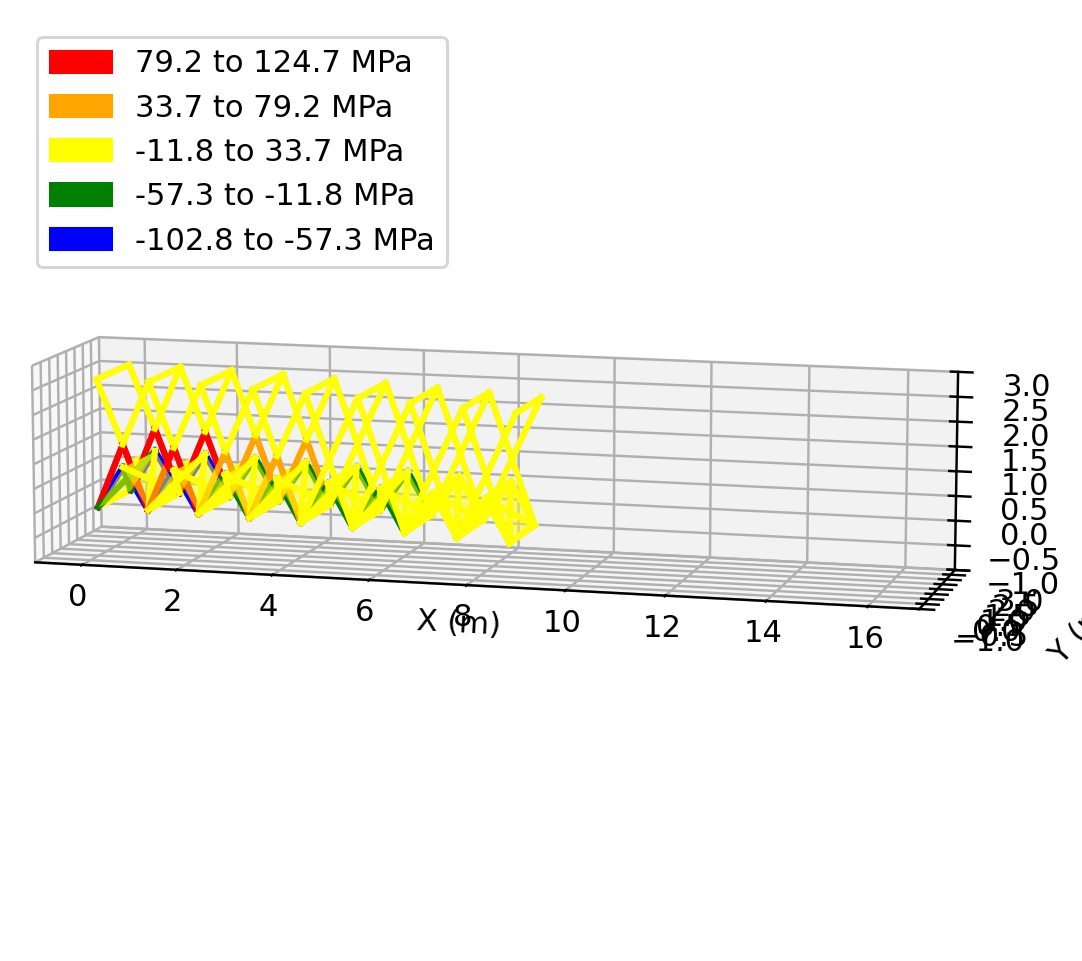
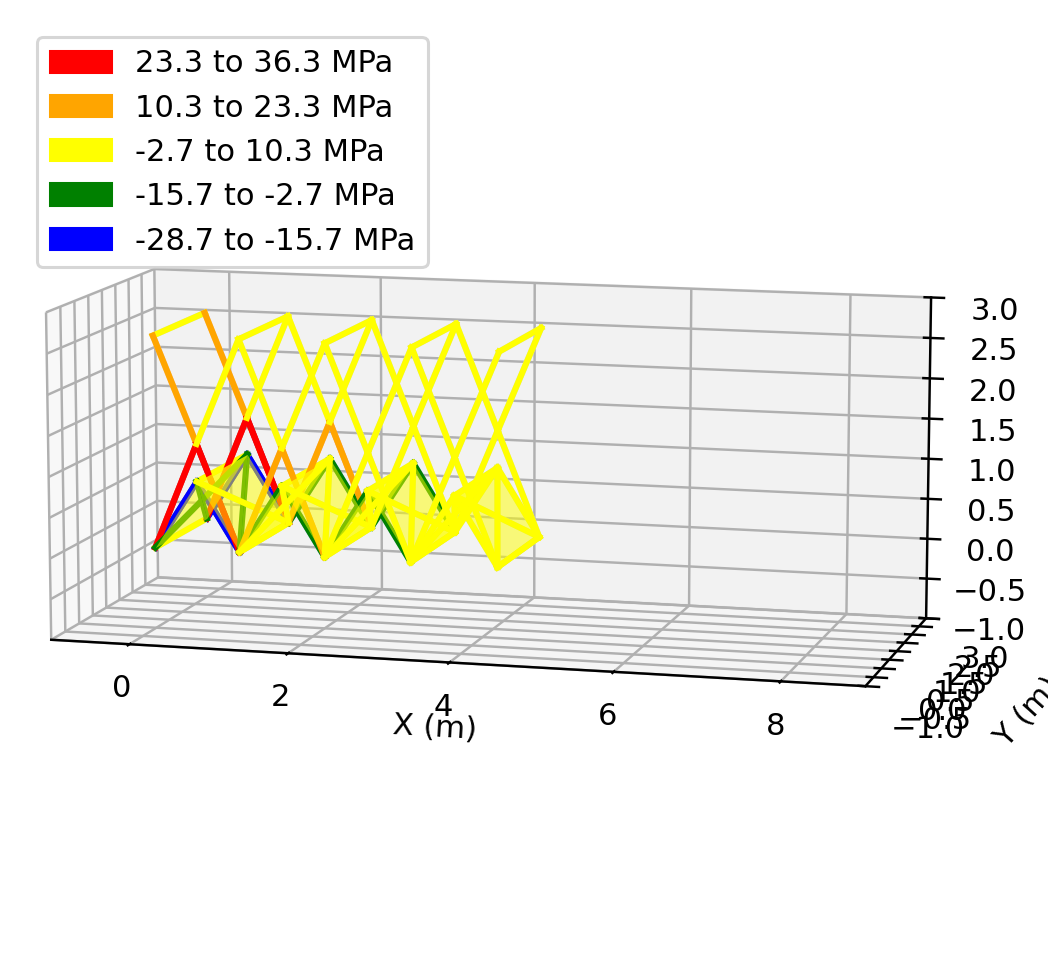
update

diff --git a/Scissor_Bridge_Strength_During_Deploy.py b/Scissor_Bridge_Strength_During_Deploy.py
@@ -1,6 +1,4 @@
 import os
-import time
-
 import numpy as np
 
 from Solver_NR_Loading import Solver_NR_Loading
@@ -52,18 +50,10 @@ def check_members(model, U_end, An, r_val, Fy, Fu, Rp):
     return truss_strain, pass_yn, dcr
 
 
-def write_summary(name, lines):
-    path = os.path.join(OUT_DIR, name)
-    with open(path, "w", encoding="utf-8") as f:
-        f.write("\n".join(lines) + "\n")
-    print(f"Saved: {path}")
-
-
-def main():
-    start = time.time()
+def scissor_deploy(secNum,dep_rate):
     dep_rate = 0.5
 
-    model = build_scissor_model(variant="standard", analysis="load", N=8)
+    model = build_scissor_model(variant="standard", analysis="load", N=secNum)
     dL = set_standard_deployment_coordinates(model, dep_rate)
     model.assembly.Initialize_Assembly()
 
@@ -122,6 +112,8 @@ def main():
     save_figure(model.plots.Plot_Shape_Bar_Stress(truss_stress,U_end), os.path.join(OUT_DIR, "Scissor_Bridge_Strength_During_Deploy_Bar_Stress.png"))
     save_figure(model.plots.Plot_Shape_Bar_Failure(pass_yn,U_end), os.path.join(OUT_DIR, "Scissor_Bridge_Strength_During_Deploy_Bar_Failure.png"))
 
+    fig1=model.plots.Plot_Shape_Bar_Stress(truss_stress,U_end)
+    fig2=model.plots.Plot_Shape_Bar_Failure(pass_yn,U_end)
+    
+    return fig1, fig2
 
-if __name__ == "__main__":
-    main()

diff --git a/streamlit_app.py b/streamlit_app.py
@@ -6,6 +6,9 @@ from Kirigami_Truss_Load_To_Fail import kirigami_fail
 from Origami_Bridge_Strength_During_Deploy import origami_deploy
 from Origami_Bridge_Load_To_Fail import origami_fail
 
+from Scissor_Bridge_Strength_During_Deploy import scissor_deploy
+from Scissor_Bridge_Load_To_Fail import scissor_fail
+
 
 st.subheader("Simulation of of deployable bridge")
 
@@ -56,6 +59,12 @@ elif BridgeType=='origami':
     # st.image("Kirigami_Truss_Strength_During_Deploy_Bar_Stress.png")    
     st.pyplot(fig1)
     st.pyplot(fig2)
+elif BridgeType=='scissor':   
+    fig1,fig2=scissor_deploy(N, DepRate)    
+    # st.image("Kirigami_Truss_Strength_During_Deploy_Bar_Failure.png")
+    # st.image("Kirigami_Truss_Strength_During_Deploy_Bar_Stress.png")    
+    st.pyplot(fig1)
+    st.pyplot(fig2)
 
 
 st.subheader("Load to failure after deployment")
@@ -79,6 +88,11 @@ elif BridgeType=='origami':
     # st.image("Kirigami_Truss_Strength_During_Deploy_Bar_Stress.png")    
     st.pyplot(fig1)
     st.pyplot(fig2)
-
+elif BridgeType=='scissor':   
+    fig1,fig2=scissor_fail(N)    
+    # st.image("Kirigami_Truss_Strength_During_Deploy_Bar_Failure.png")
+    # st.image("Kirigami_Truss_Strength_During_Deploy_Bar_Stress.png")    
+    st.pyplot(fig1)
+    st.pyplot(fig2)
 
 

diff --git a/Scissor_Bridge_Load_To_Fail.py b/Scissor_Bridge_Load_To_Fail.py
@@ -30,15 +30,11 @@ def check_members(model, U_end, An, r_val, Fy, Fu, Rp):
     return truss_strain, pass_yn, dcr
 
 
-def main():
-    
-    N=4
+def scissor_fail(secNum):
 
-    model = build_scissor_model(variant="standard", analysis="load", N=4)
+    model = build_scissor_model(variant="standard", analysis="load", N=secNum)
     model.assembly.Initialize_Assembly()
     
-
-
     Fy = 345e6
     Fu = 427e6
     E = model.settings["barE"]
@@ -60,7 +56,7 @@ def main():
     nr.supp = load_supports(model.settings["N"], model.settings["stride"])
     nr.verbose = False
 
-    force = 5000.0
+    force = 10000.0
     history = []
     Uhis = U_end = truss_strain = pass_yn = dcr = None
     total_F = 0.0
@@ -110,5 +106,7 @@ def main():
     save_figure(model.plots.Plot_Shape_Bar_Stress(truss_stress,U_end), os.path.join(OUT_DIR, "Scissor_Bridge_Load_To_Fail_Bar_Stress.png"))
     save_figure(model.plots.Plot_Shape_Bar_Failure(pass_yn,U_end), os.path.join(OUT_DIR, "Scissor_Bridge_Load_To_Fail_Bar_Failure.png"))
 
-if __name__ == "__main__":
-    main()
+    fig1=model.plots.Plot_Shape_Bar_Stress(truss_stress,U_end)
+    fig2=model.plots.Plot_Shape_Bar_Failure(pass_yn,U_end)
+    
+    return fig1,fig2

diff --git a/scissor_common.py b/scissor_common.py
@@ -1,13 +1,9 @@
 import os
 from dataclasses import dataclass
-
 import matplotlib
-
 matplotlib.use("Agg")
-
 import matplotlib.pyplot as plt
 import numpy as np
-
 from Assembly_Scissor_Bridge import Assembly_Scissor_Bridge
 from CD_Elements_RotSprings_3N import CD_Elements_RotSprings_3N
 from Elements_Nodes import Elements_Nodes
